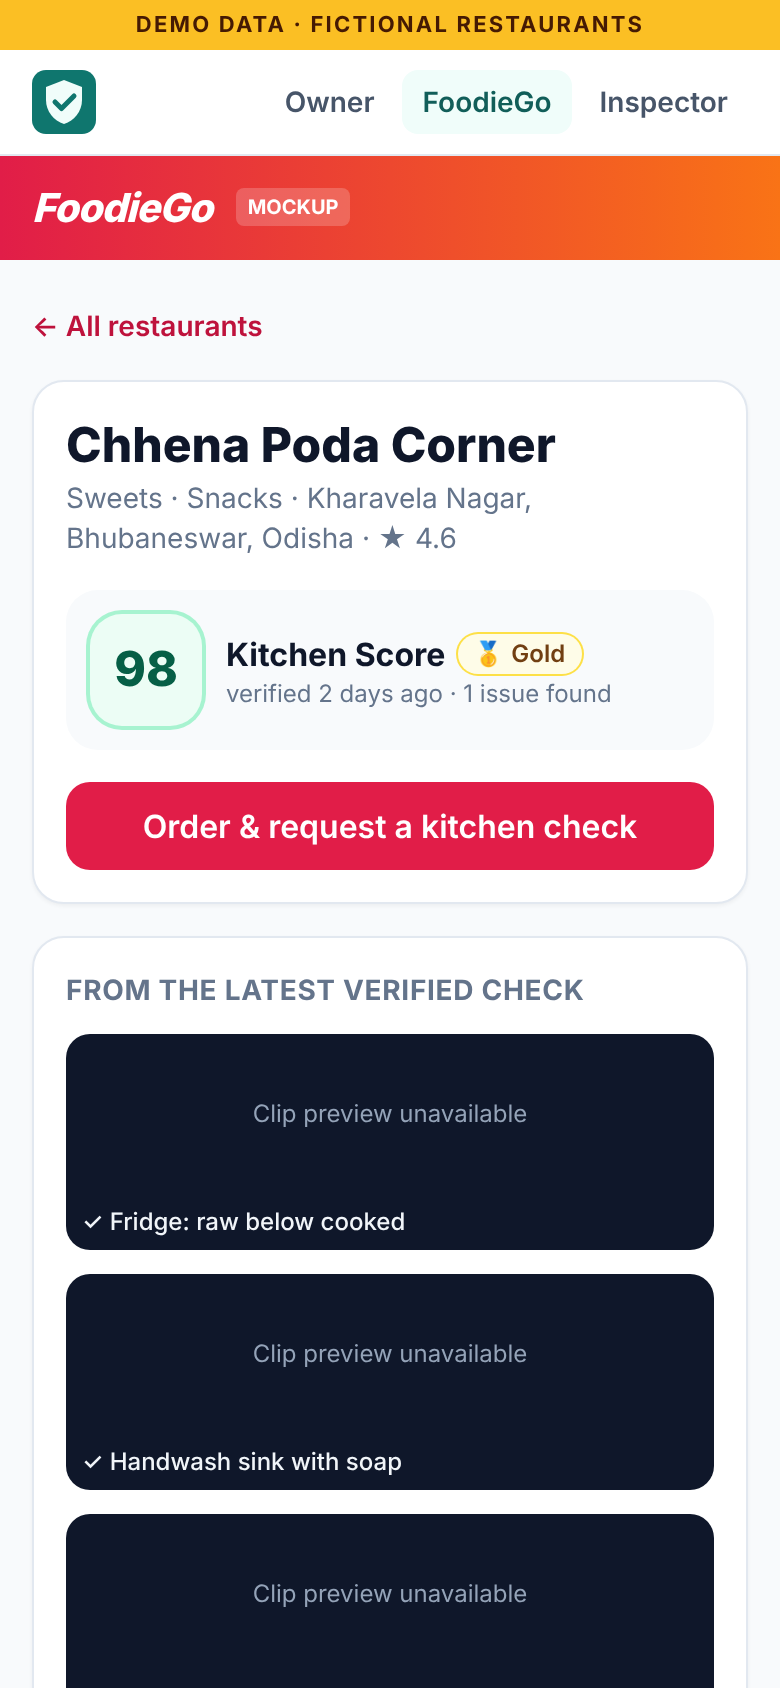
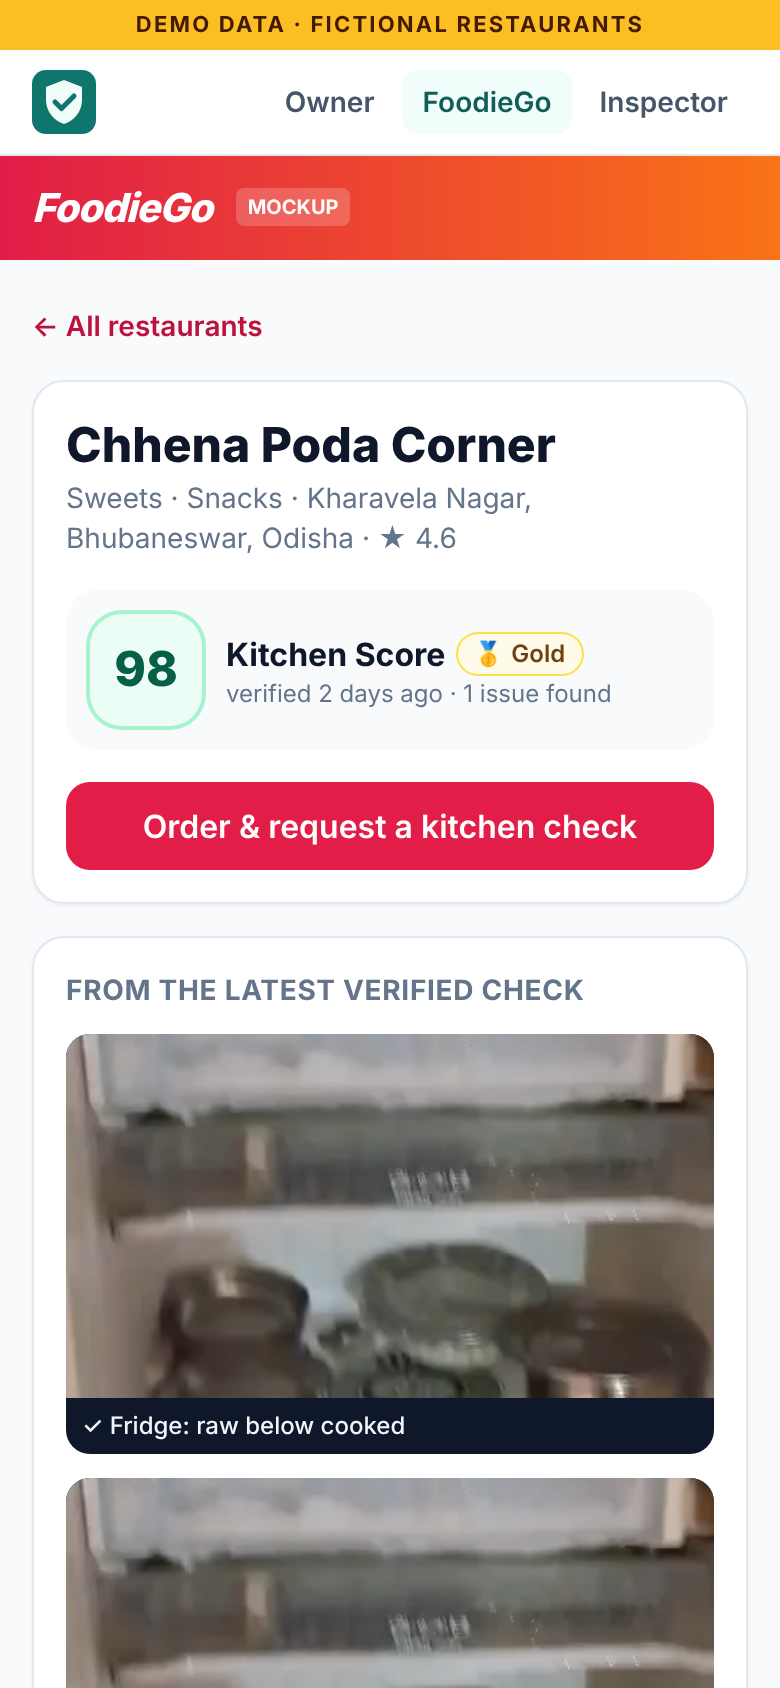
README screenshots with the real kitchen videos; clearer fridge check label
Claude-Session: https://claude.ai/code/session_019gZoY9Z6mrtfHUMXc1yJwP

Changed region(s): [[0.0615, 0.5853, 0.9231, 1.0]]

diff --git a/frontend/src/lib/checks.ts b/frontend/src/lib/checks.ts
@@ -3,7 +3,7 @@ import type { Severity } from './types'
 
 export const CHECKS: Record<string, { label: string; severity: Severity }> = {
   pests: { label: 'No pests', severity: 'critical' },
-  fridge_segregation: { label: 'Fridge: raw below cooked', severity: 'critical' },
+  fridge_segregation: { label: 'Fridge: covered, raw below cooked', severity: 'critical' },
   fridge_temp: { label: 'Fridge at 5 °C or colder', severity: 'high' },
   handwash: { label: 'Handwash sink with soap', severity: 'high' },
   handler_hygiene: { label: 'Cook hygiene (cap, gloves, apron)', severity: 'high' },
